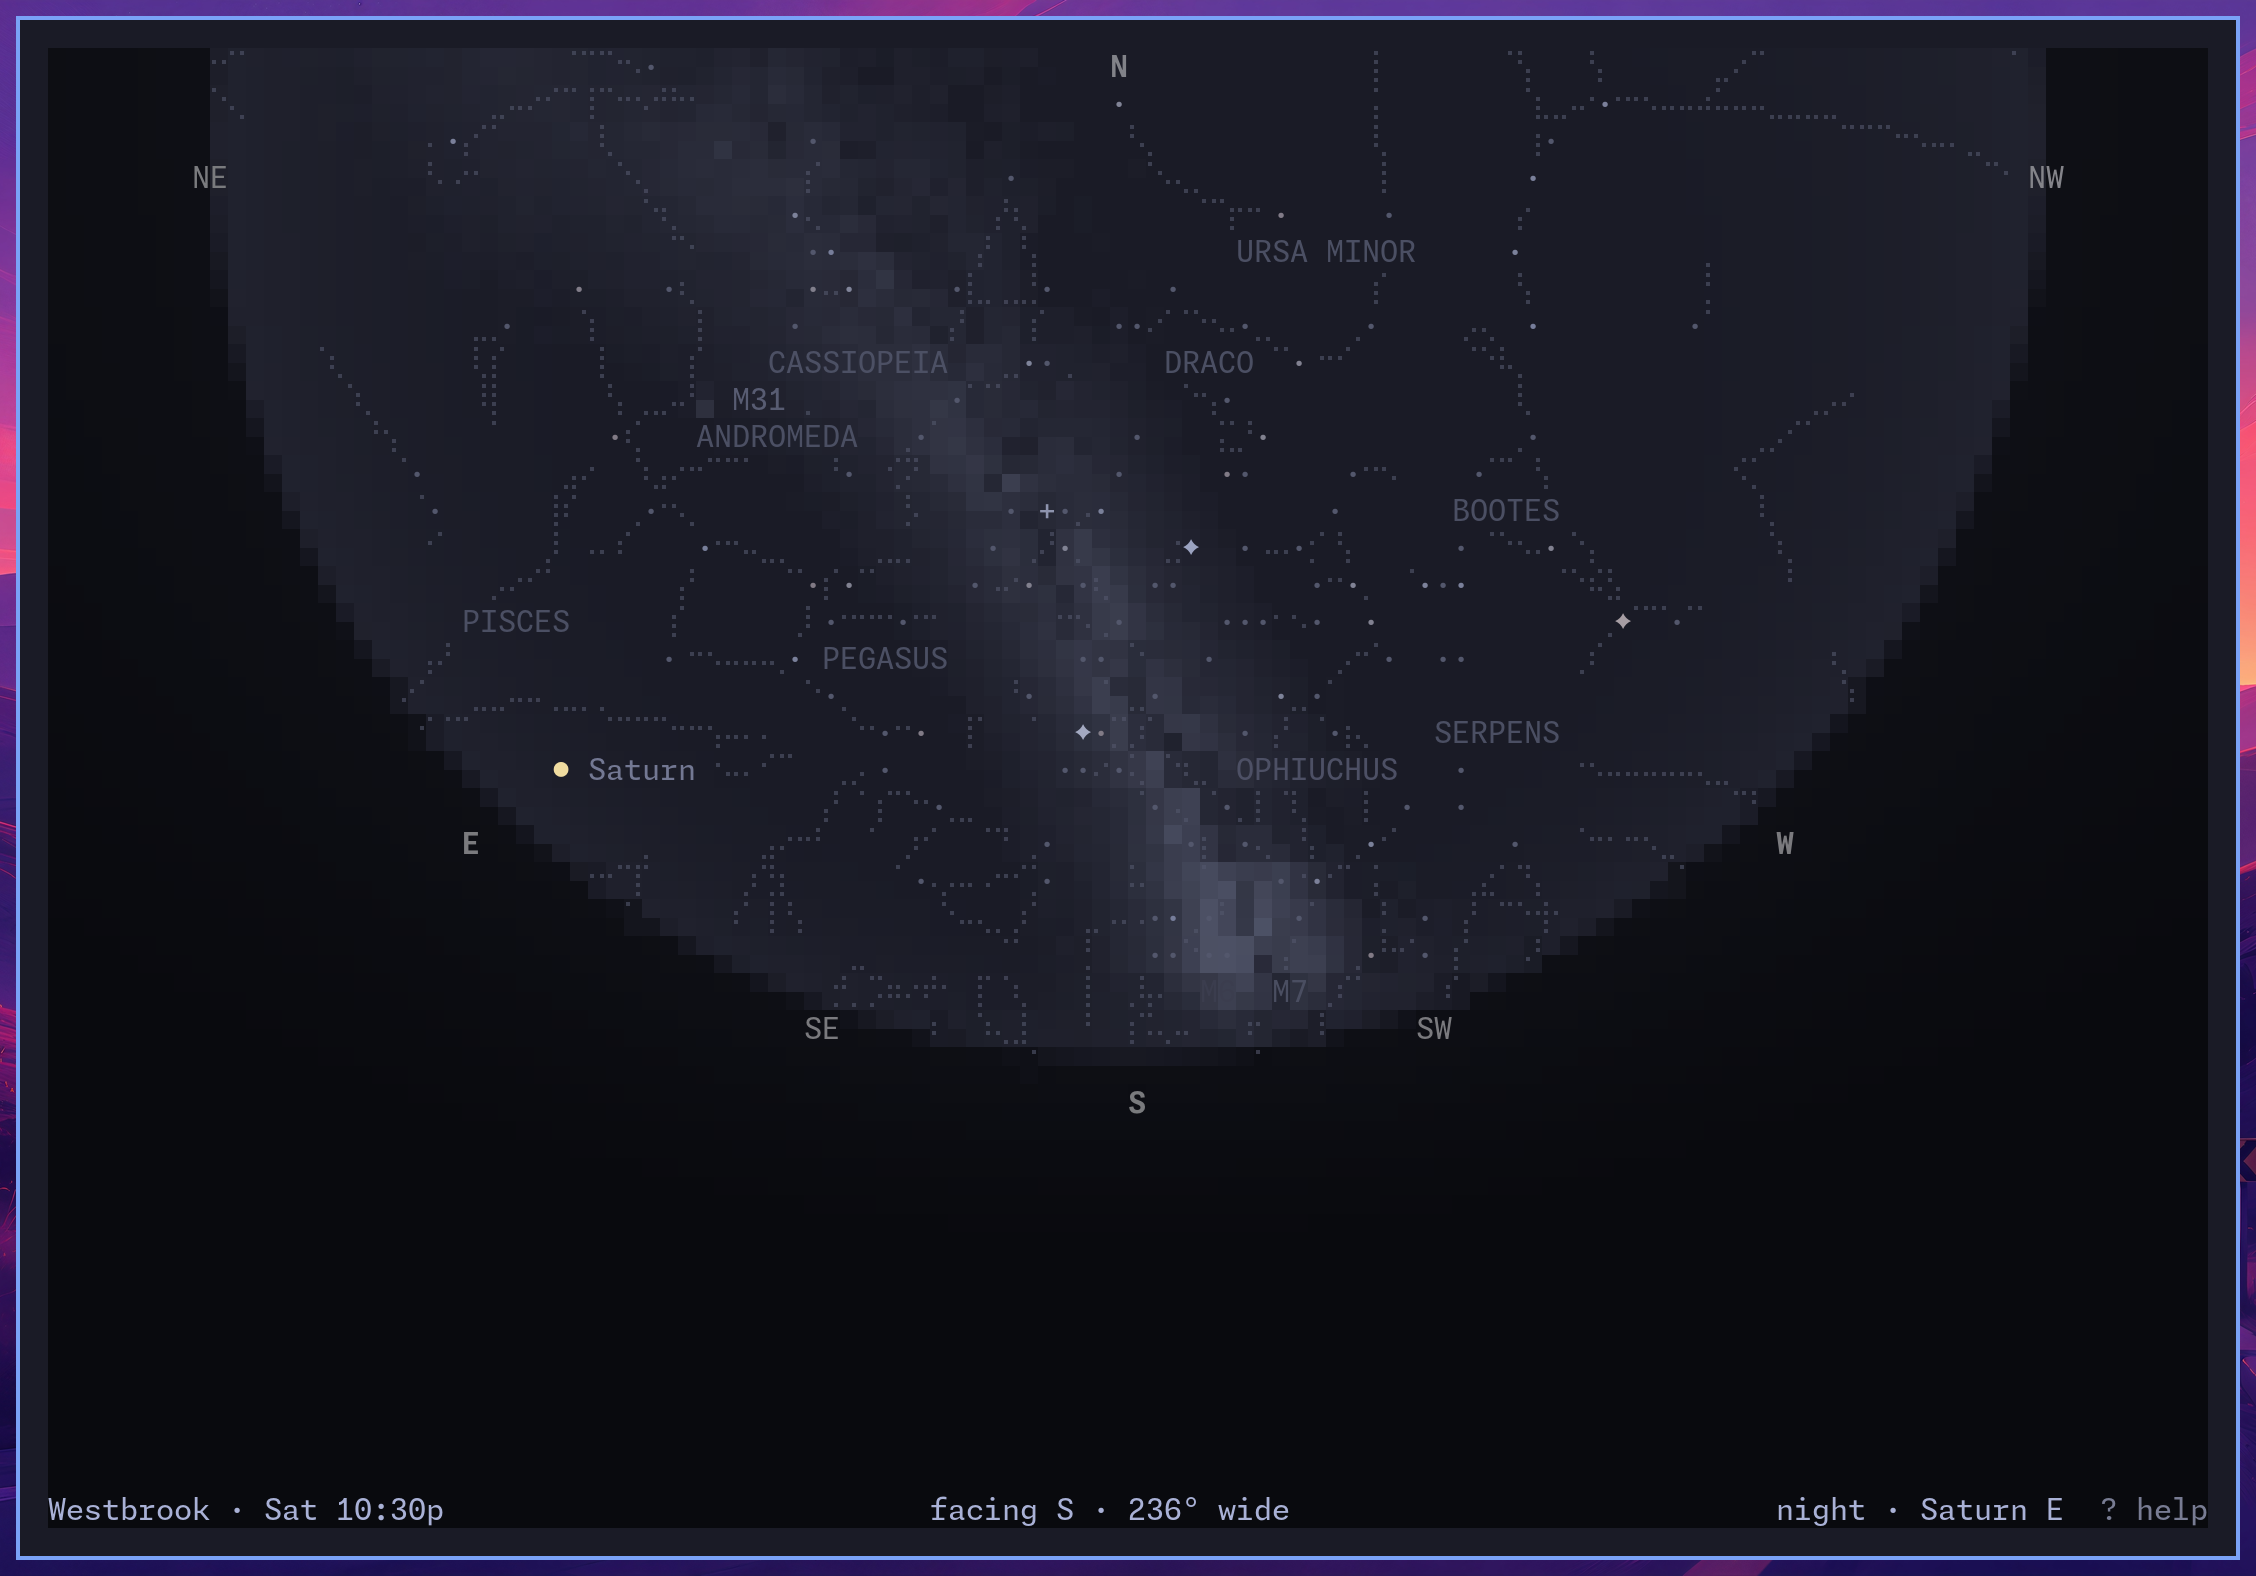
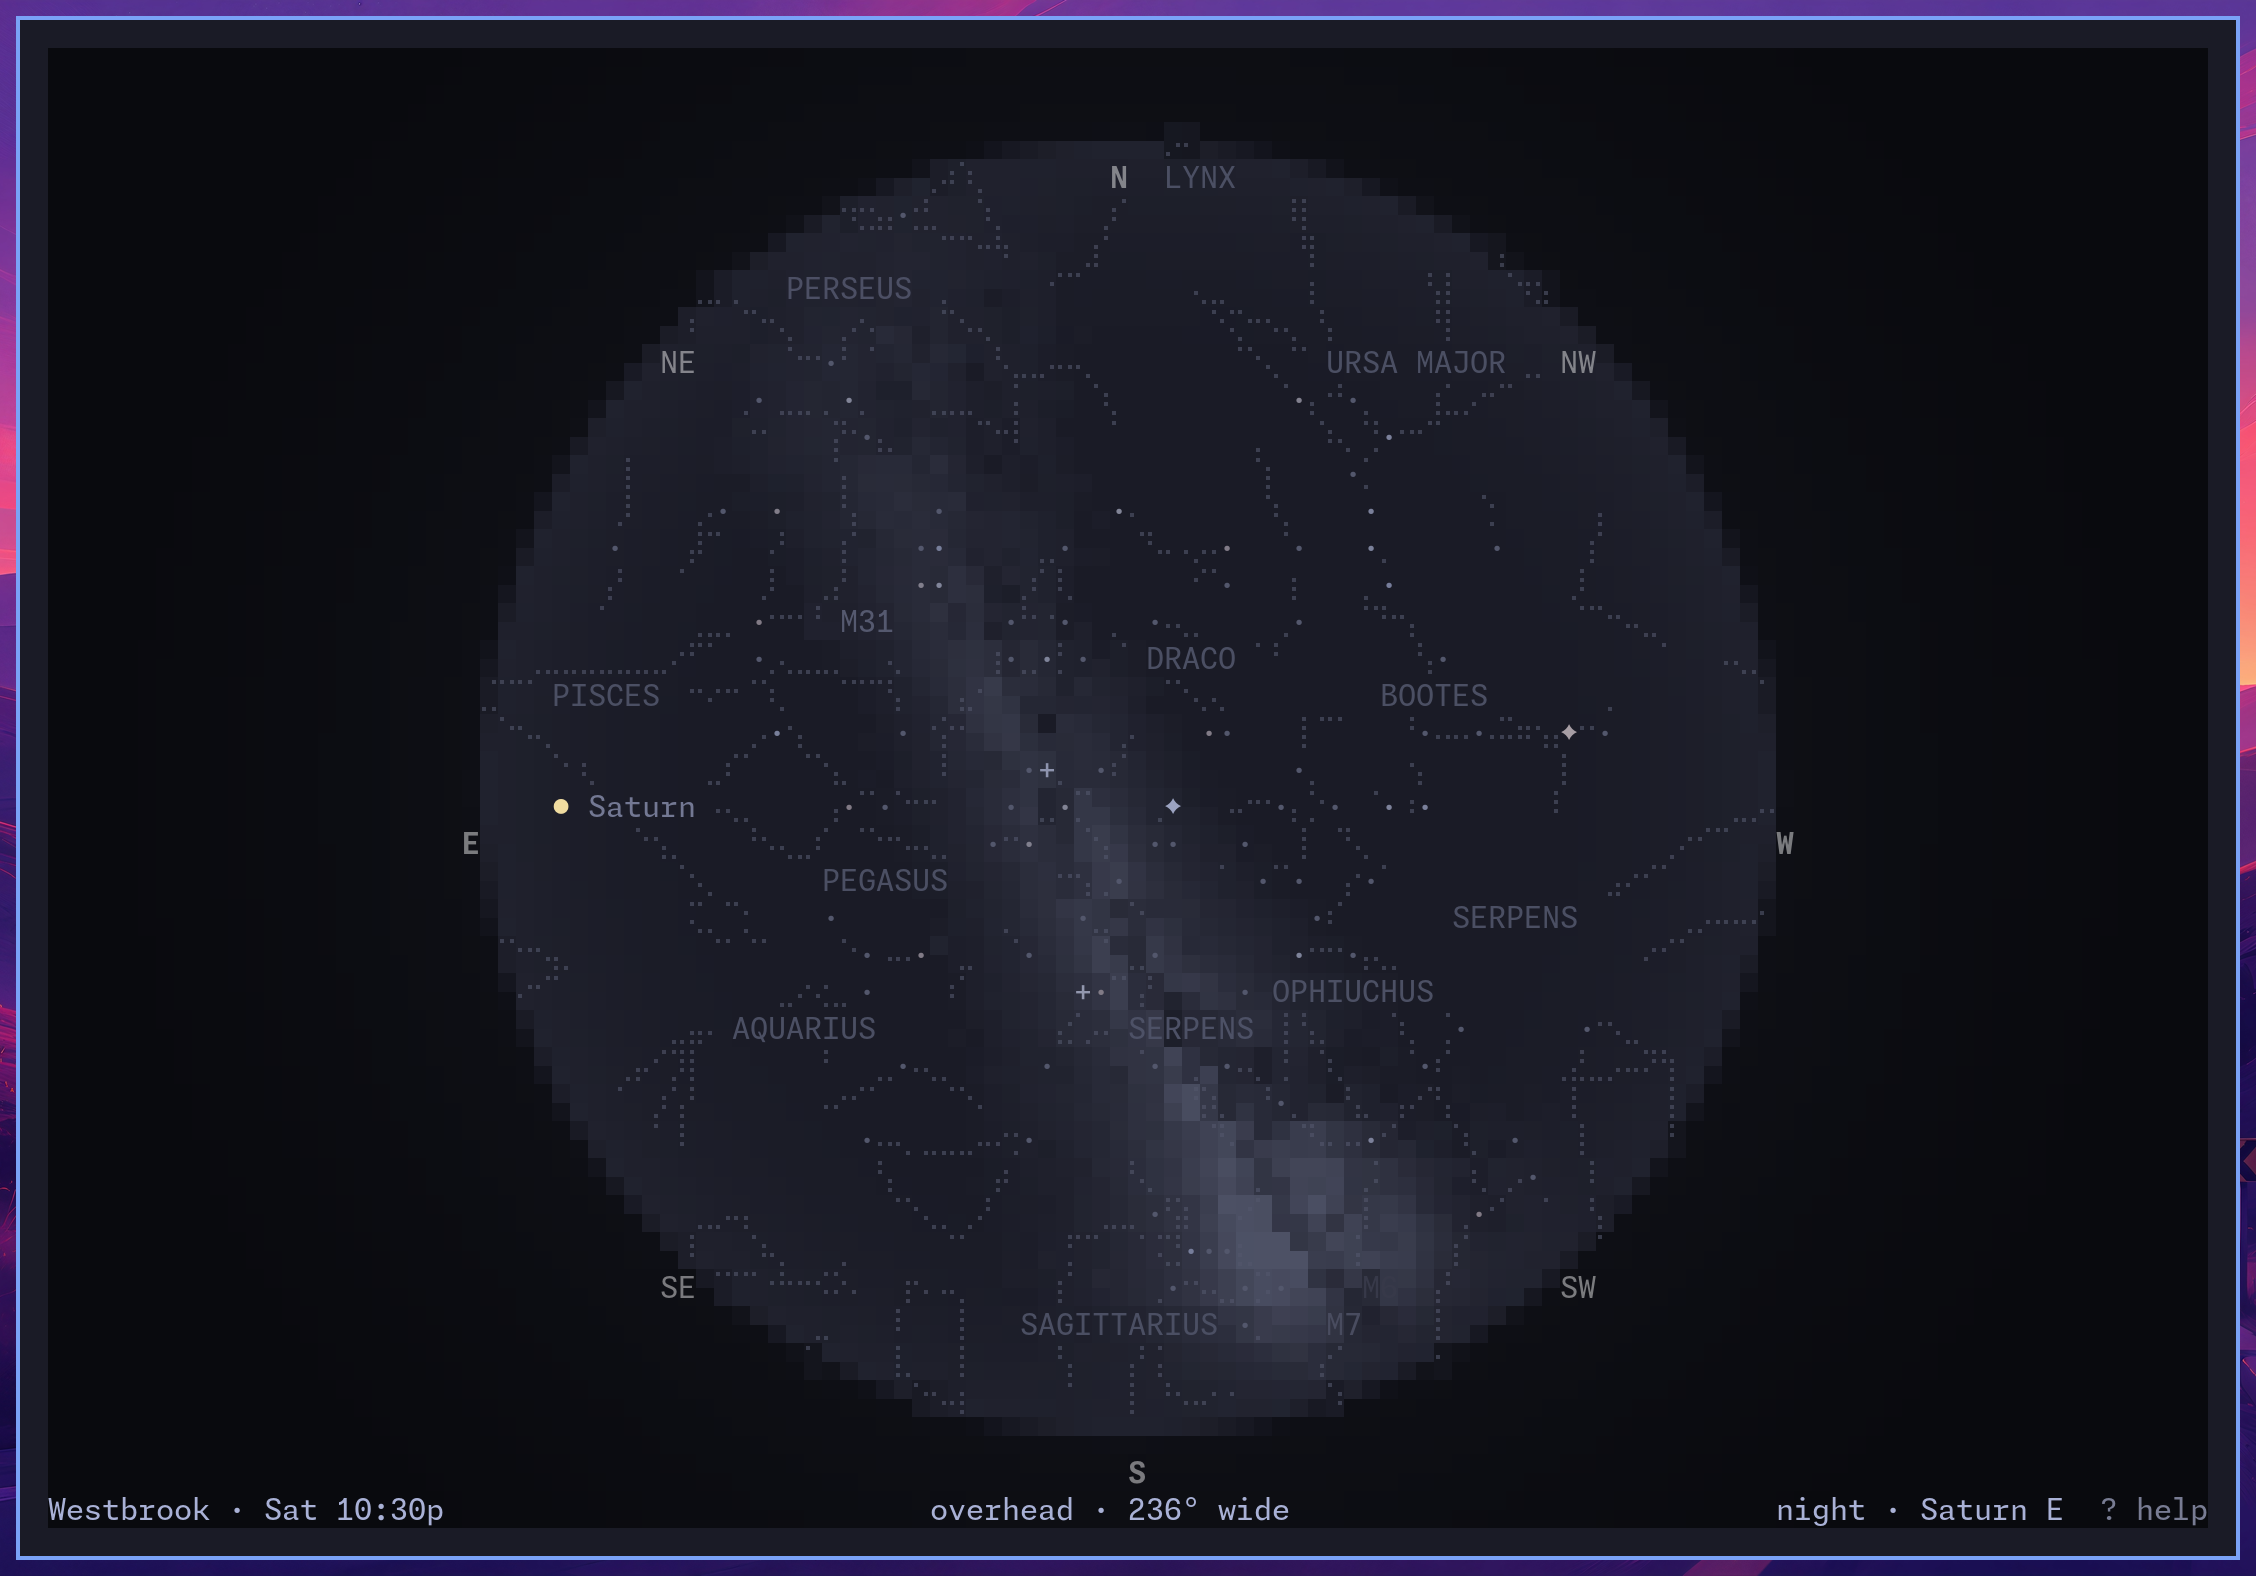
Screenshots: the whole sky centred overhead, and played through a night
The all-sky frame opened at --fov 236, which never lies the view back,
so its circle sat off-centre. It now opens facing south and zooms out
with -, as a reader would, until the horizon is a circle overhead with
north at the top. The sky target also records sky-time.gif: that view
played forward with p, at an hour a second, from 3 p.m. on August 18,
2026, when a half Moon is up with the Sun, into the night.

Claude-Session: https://claude.ai/code/session_01LDKwWZMGoqV2jDDAvKcvLQ

diff --git a/scripts/capture_offscreen.py b/scripts/capture_offscreen.py
@@ -15,6 +15,8 @@ Targets:
     moon        moon-alone.png, the Moon with the text put away (t)
     moon-spin   moon-spin.gif and .mp4: the Moon dragged round and let go,
                 settling back to the face it really shows
+    sky-time    sky-time.gif and .mp4: the whole sky overhead, played
+                through an August afternoon and night at an hour a second
     themes      themes.gif and .mp4: the hero desktop through a run of
                 Omarchy themes, the apps taking each one up as it lands
     languages   languages.png: a second desktop, the apps in Canadian French,
@@ -345,6 +347,47 @@ def moon_spin(args, theme):
     report(args.out / "moon-spin.gif")
 
 
+def sky_time(args, theme):
+    """The whole sky, zoomed out with - until the horizon closes into a
+    circle overhead, then played forward (p) at an hour a second through
+    an August afternoon and night over Westbrook: the Sun and a waxing
+    Moon crossing, the sunset and its colours, the stars and then the
+    Milky Way coming out as the Moon goes down, the whole dome turning."""
+    cols, rows = 110, 36
+    face = Typeface(FAMILY, 11, 2)
+    # Facing south as it lies back, so north is at the top of the circle.
+    s = Session(moment("2026-08-18T15:00", WESTBROOK, "sky", "--location", WESTBROOK,
+                       "--facing", "S"),
+                cols, rows, theme, cell=(face.cell_w, face.cell_h)).start()
+    try:
+        time.sleep(4)
+        for _ in range(4):
+            s.send("-")
+            time.sleep(0.15)
+        time.sleep(2.5)
+        s.start_recording()
+        t0 = time.monotonic()
+        time.sleep(1.0)              # a moment of the afternoon first
+        s.send("p")
+        time.sleep(args.hours)
+        t1 = time.monotonic()
+        s.stop_recording()
+    finally:
+        s.stop()
+
+    def key_at(t):
+        return id(s.frame_at(t))
+
+    for scale, out, fps in ((1, "sky-time.gif", 15), (2, "sky-time.mp4", 30)):
+        face = Typeface(FAMILY, 11, scale)
+        look = Look(scale=scale)
+        stills = sample(lambda t, face=face, look=look: window_image(s.frame_at(t), face,
+                                                                     look=look),
+                        key_at, t0, t1, fps)
+        encode(stills, args.out / out, fps)
+    report(args.out / "sky-time.gif")
+
+
 THEME_RUN = ("tokyo-night", "catppuccin-latte", "gruvbox", "rose-pine", "everforest",
              "kanagawa", "flexoki-light", "osaka-jade", "ristretto", "nord")
 
@@ -404,7 +447,7 @@ def report(path):
 
 
 TARGETS = {"hero": hero, "moon": moon_alone, "moon-spin": moon_spin,
-           "themes": themes, "languages": languages}
+           "sky-time": sky_time, "themes": themes, "languages": languages}
 
 
 def main():
@@ -413,6 +456,8 @@ def main():
     parser.add_argument("--theme", default=None,
                         help="Omarchy theme for the still frames (default: the current one)")
     parser.add_argument("--themes", nargs="+", help="the run of themes for the themes target")
+    parser.add_argument("--hours", type=float, default=10.0,
+                        help="hours of the sky-time recording, played at an hour a second")
     parser.add_argument("--hold", type=float, default=2.0,
                         help="seconds on each theme in the themes target")
     parser.add_argument("--radar", default="Portland, Maine",
@@ -423,7 +468,8 @@ def main():
                         help="scale desktops down to this many pixels wide")
     parser.add_argument("--out", type=Path, default=SHOTS)
     args = parser.parse_args()
-    if shutil.which("ffmpeg") is None and {"moon-spin", "themes", "all"} & set(args.targets):
+    recordings = {"moon-spin", "sky-time", "themes", "all"}
+    if shutil.which("ffmpeg") is None and recordings & set(args.targets):
         raise SystemExit("capture_offscreen: the recordings need ffmpeg")
     args.out.mkdir(parents=True, exist_ok=True)
     theme = Theme.omarchy(args.theme) if args.theme else Theme.current()

diff --git a/screenshots/README.md b/screenshots/README.md
@@ -31,7 +31,7 @@ The `gallery` target fills `screenshots/gallery/` with the frames [the gallery](
 Weather, tides, radar, and maps use current public data. Sunshine, Moon, and sky use fixed local moments through `scripts/capture_moment.py`, keeping those frames repeatable at any time of day. The weather target makes four frames: Dublin at 110×34, where the dashboard is at its densest; two smaller ones, Reykjavík in Icelandic and Kyoto in Japanese, both metric; and the year view for Westbrook at 130×38, with the pointer on a week in May so that week's chip is in the frame. The year target adds the pointer: termshot moves it onto the December solstice so the hover tooltip is in the frame. Its main frame is Reykjavík, in Icelandic, and the two polar frames are Longyearbyen and Vostok Station, at 78° either side of the equator.
 The moon target also captures Okinawa in Japanese on the evening after the mid-autumn full moon of 2026, once as the disc (the night named 十六夜) and once after pressing `v`, with the pointer on the 25th so the calendar's hover chip reads 十五夜. Then it presses `t` for the Moon alone (`moon-alone.png`) and records `moon-spin.gif`: the pointer drags the Moon round and lets go, and it settles back to the face it really shows. The recording is kept as cells, so it is drawn twice, at 1× for the GIF, where the Moon's blocks land on whole pixels and compress well, and at 2× for `moon-spin.mp4`. The MP4s stay out of git: they are for editing, or for uploading to GitHub where a video is wanted.
 
-The sky target is three fixed nights over Westbrook: Orion on a January evening, framed by `--at Orion`; the whole August sky at once at the widest field of view; and the same January sky in the Hawaiian tradition.
+The sky target is three fixed nights over Westbrook: Orion on a January evening, framed by `--at Orion`; the whole August sky at once, zoomed out with `-` until the view lies back and the horizon is a circle overhead (opening at `--fov 236` does not lie back, so the circle would sit off-centre); and the same January sky in the Hawaiian tradition. Then it records `sky-time.gif`: the same zoomed-out view, facing south so north is at the top, played forward with `p` at an hour a second from 3 p.m. on August 18, 2026, when a half Moon is up with the Sun, into the night.
 
 The globe target is honestly unrepeatable by design: it makes two frames, the terrain planet with `S` pressed for this hour's daylight and city lights, and `--view now` with this hour's clouds as well, and then both again with the labels put away by `l`. By default it centres the view 45° east of wherever the sun is overhead at capture time, so the sunset line always crosses the right half of the disk; which continents are in the frame depends on the hour, so pick one you like or set `LINECAST_CAPTURE_GLOBE_PLACE` to a fixed `LAT,LNG`. Read both frames back before committing.
 
